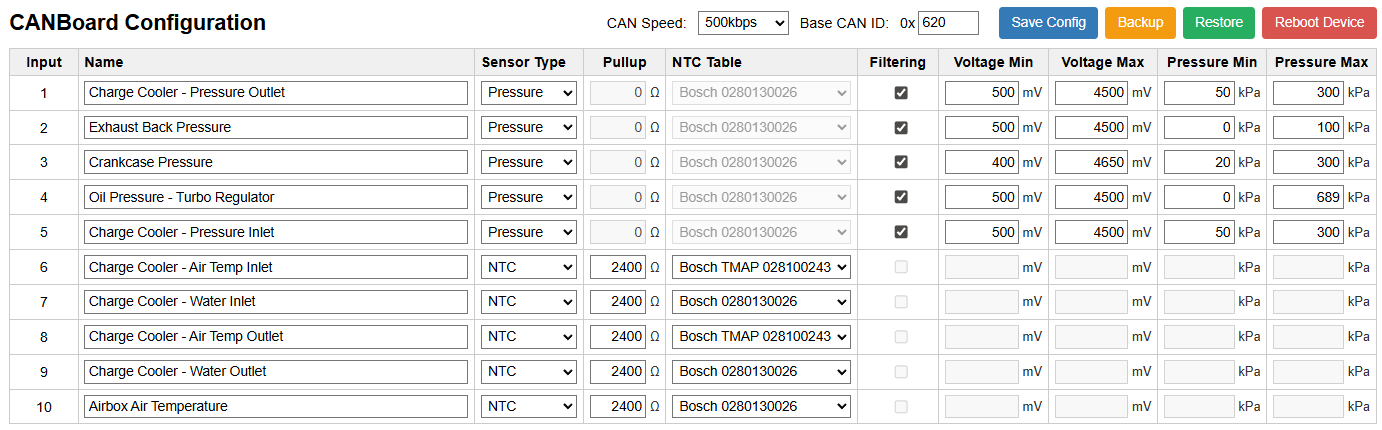
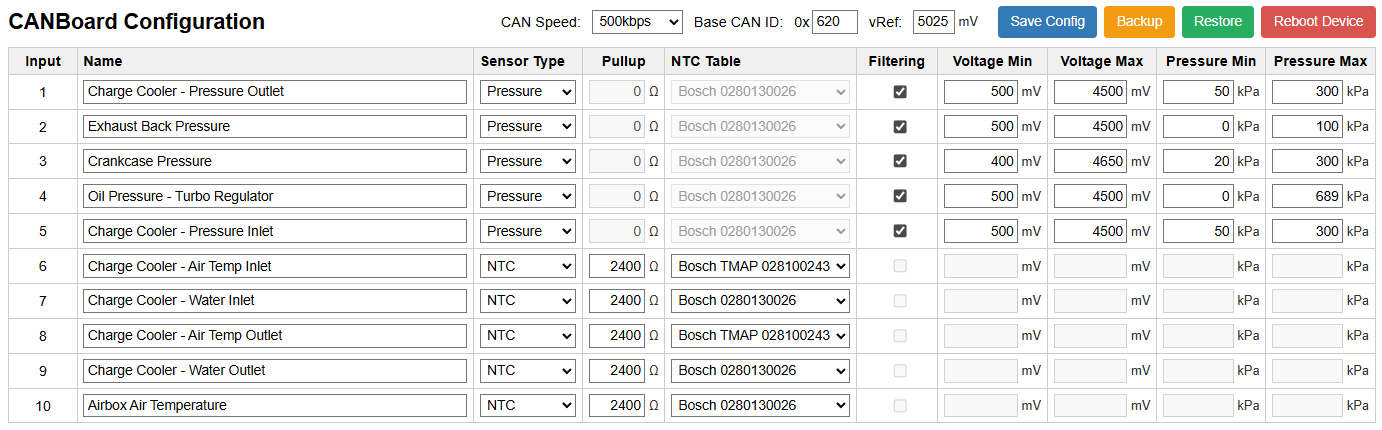
Moved vref to config.

Changed region(s): [[0.0, 0.0, 1.0, 0.9977]]

diff --git a/main/spiffs/index.html b/main/spiffs/index.html
@@ -46,7 +46,8 @@
         .controls-inline { display:flex; align-items:center; gap:0.75em; }
         .header-controls { margin-right: 0.9em; }
         .small-select { width:12ch; }
-        .hex-input { width:8ch; }
+        .hex-input { width:6ch; }
+        .small-input { width:5.5ch; }
         .hex-prefix { margin-right:0.2em; }
     </style>
 </head>
@@ -67,7 +68,12 @@
                 <label for="base-can-id">Base CAN ID:</label>
                 <div style="display:flex; align-items:center;">
                     <span class="hex-prefix">0x</span>
-                    <input id="base-can-id" name="can_start_id" class="hex-input" maxlength="4" value="100" />
+                    <input id="base-can-id" name="can_start_id" class="hex-input" maxlength="3" value="100" />
+                </div>
+                <label for="pullup-vref">vRef:</label>
+                <div style="display:flex; align-items:center; gap:0.25em;">
+                    <input id="pullup-vref" name="pullup_vref_mv" class="small-input no-spin" type="number" min="0" max="9999" value="5025" />
+                    <span class="unit">mV</span>
                 </div>
             </div>
             <button id="save-btn" class="action-btn" type="submit">Save Config</button>
@@ -208,6 +214,9 @@
         if (config.can_start_id !== undefined) {
             baseElem.value = config.can_start_id.toString(16).toUpperCase();
         }
+        // Set pull-up Vref if provided
+        const pullupElem = document.getElementById('pullup-vref');
+        if (pullupElem) pullupElem.value = (config.pullup_vref_mv !== undefined) ? config.pullup_vref_mv : 5025;
     }
 
     document.getElementById('config-form').onsubmit = async function(e) {
@@ -245,6 +254,9 @@
                 };
             }
         }
+        // Read pull-up Vref
+        const pv = parseInt(document.getElementById('pullup-vref').value);
+        config.pullup_vref_mv = isNaN(pv) ? (config.pullup_vref_mv || 5025) : pv;
         const resp = await fetch('/api/config', {
             method: 'POST',
             headers: { 'Content-Type': 'application/json' },

diff --git a/main/src/http_server.c b/main/src/http_server.c
@@ -109,9 +109,9 @@ esp_err_t config_get_handler(httpd_req_t *req) {
     size_t json_pos = 0;
     const size_t json_max = 4096;
     
-    // Start JSON object including CAN speed and base ID
-    json_pos += snprintf(json + json_pos, json_max - json_pos, "{\"can_speed_kbps\":%lu,\"can_start_id\":%lu,\"channels\":[",
-        (unsigned long)cfg.can_speed_kbps, (unsigned long)cfg.can_start_id);
+    // Start JSON object including CAN speed, base ID and pull-up Vref
+    json_pos += snprintf(json + json_pos, json_max - json_pos, "{\"can_speed_kbps\":%lu,\"can_start_id\":%lu,\"pullup_vref_mv\":%u,\"channels\":[",
+        (unsigned long)cfg.can_speed_kbps, (unsigned long)cfg.can_start_id, (unsigned)cfg.pullup_vref_mv);
     
     for (int i = 0; i < CONFIG_CHANNELS; ++i) {
         json_pos += snprintf(json + json_pos, json_max - json_pos,
@@ -387,8 +387,8 @@ esp_err_t config_export_get_handler(httpd_req_t *req) {
 
     size_t json_pos = 0;
     const size_t json_max = 4096;
-    json_pos += snprintf(json + json_pos, json_max - json_pos, "{\"can_speed_kbps\":%lu,\"can_start_id\":%lu,\"channels\":[",
-        (unsigned long)cfg.can_speed_kbps, (unsigned long)cfg.can_start_id);
+    json_pos += snprintf(json + json_pos, json_max - json_pos, "{\"can_speed_kbps\":%lu,\"can_start_id\":%lu,\"pullup_vref_mv\":%u,\"channels\":[",
+        (unsigned long)cfg.can_speed_kbps, (unsigned long)cfg.can_start_id, (unsigned)cfg.pullup_vref_mv);
 
     for (int i = 0; i < CONFIG_CHANNELS; ++i) {
         json_pos += snprintf(json + json_pos, json_max - json_pos,
@@ -570,6 +570,11 @@ esp_err_t config_import_post_handler(httpd_req_t *req) {
                 cfg.can_start_id = (uint32_t)strtoul(s, NULL, 0);
             }
         }
+    }
+
+    cJSON *pullup_vref = cJSON_GetObjectItem(root, "pullup_vref_mv");
+    if (pullup_vref && cJSON_IsNumber(pullup_vref)) {
+        cfg.pullup_vref_mv = (uint16_t)pullup_vref->valueint;
     }
 
     // Backup existing config file before overwrite

diff --git a/main/src/can.c b/main/src/can.c
@@ -172,7 +172,7 @@ void canTransmit(void *arg)
                 dyn[i] = p;
             } else if (board_cfg.channels[i].type == SENSOR_NTC) {
                 const ntc_table_def_t *t = ntc_get_table(board_cfg.channels[i].params.ntc.table_id);
-                int8_t temp = getSensorTemperature(voltages_copy[i], board_cfg.channels[i].pullup_ohms, PULLUP_VREF_MV,
+                int8_t temp = getSensorTemperature(voltages_copy[i], board_cfg.channels[i].pullup_ohms, board_cfg.pullup_vref_mv,
                                                    t ? t->points : NULL, t ? t->points_count : 0);
                 if (temp == (int8_t)-128) temp = 0;
                 int16_t t16 = (int16_t)temp;

diff --git a/main/inc/inputs.h b/main/inc/inputs.h
@@ -10,7 +10,6 @@
 #define ADC_CHANNEL_START ADC_CHANNEL_0            ///< First ADC channel
 #define ADC_CHANNEL_END ADC_CHANNEL_9              ///< Last ADC channel
 #define NUM_ADC_CHANNELS (ADC_CHANNEL_END - ADC_CHANNEL_START + 1) ///< Total number of ADC channels (10)
-#define PULLUP_VREF_MV 5025                        ///< Optional pullup supply voltage in millivolts (5V)
 #define FILTER_DEPTH 5                             ///< Number of samples for median filtering
 #define NTC_TABLE_SIZE(x) (sizeof(x) / sizeof((x)[0])) ///< Macro to calculate NTC table size
 #define DIVIDER_HIGH_OHM 4700                      ///< Series resistor value (4.7k ohm)

diff --git a/main/inc/config.h b/main/inc/config.h
@@ -41,6 +41,7 @@ typedef struct {
     uint32_t version;                      ///< Config version for migration/compatibility
     uint32_t can_start_id;                 ///< CAN message ID base (incremented for each message)
     uint32_t can_speed_kbps;               ///< CAN bus speed (125, 250, 500, or 1000 kbps)
+    uint16_t pullup_vref_mv;               ///< Pull-up reference voltage in millivolts (e.g. 5025)
     channel_config_t channels[CONFIG_CHANNELS]; ///< Per-channel configuration array
     uint32_t crc32;                        ///< CRC32 checksum of all fields above for integrity verification
 } board_config_t;

diff --git a/main/src/config.c b/main/src/config.c
@@ -170,6 +170,7 @@ void config_set_defaults(board_config_t *cfg) {
     cfg->version = CONFIG_VERSION;
     cfg->can_start_id = 0x100;
     cfg->can_speed_kbps = 500; // Default CAN speed 500 kbps
+    cfg->pullup_vref_mv = 5025; // Default pull-up reference voltage (mV)
     
     for (int i = 0; i < CONFIG_CHANNELS; ++i) {
         snprintf(cfg->channels[i].name, CONFIG_NAME_LEN, "Input %d", i + 1);

diff --git a/README.md b/README.md
@@ -33,8 +33,10 @@ The web UI allows you to:
 
 | Function | Description |
 |:--- |:--- |
-| Backup | Click the `Backup` button in the web UI to download a JSON snapshot of the current configuration. The filename is prefixed with `esp32-canboard-config-` and suffixed with the client timestamp in `ddmmyy-hhmmss` format. |
-| Restore | Use the `Restore` button to select a previously exported JSON file. The UI will upload the JSON to the device and validate the payload. The existing configuration is backed up on the device before overwrite; if saving the imported file fails, the device will attempt to restore the previous configuration. |
+| Save Config | Save current UI settings to device storage (`/spiffs/config.bin`). Changes are validated and persisted immediately, reboot to apply. |
+| Backup | Download a JSON snapshot of the current configuration. The filename is prefixed with `esp32-canboard-config-` and suffixed with the client timestamp in `ddmmyy-hhmmss` format. |
+| Restore | Select a previously exported JSON file. The UI will upload the JSON to the device and validate the payload. The existing configuration is backed up on the device before overwrite; if saving the imported file fails, the device will restore the previous configuration. |
+| Reboot Device | Reboots the device to apply configuration changes. |
 
 **Notes:**
 - Configuration is persisted on SPIFFS at `/spiffs/config.bin` (binary) and the web UI uses JSON export/import for human-readable backups.
